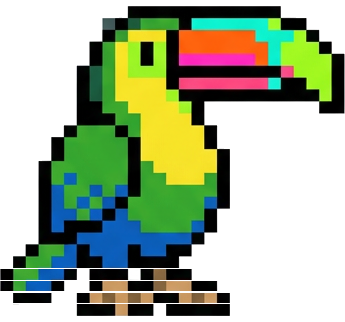
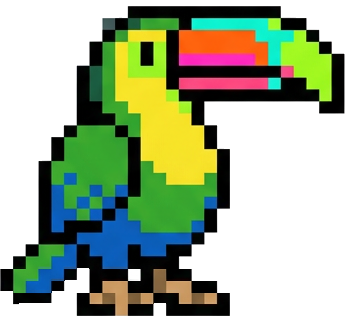
Add files via upload

Changed region(s): [[0.2609, 0.9006, 0.6377, 0.9317], [0.029, 0.9006, 0.1449, 0.9317]]

diff --git a/src/lib/version.ts b/src/lib/version.ts
@@ -4,7 +4,7 @@
  * quickest tell for a partial upload: a missing file usually shows up as a
  * missing migration.
  */
-export const APP_VERSION = "0.598.0";
+export const APP_VERSION = "0.599.0";
 
 export const MIGRATIONS = [
   "0_init",
@@ -145,6 +145,12 @@ export const MIGRATIONS = [
 export type Change = { version: string; summary: string[] };
 
 export const CHANGES: Change[] = [
+  {
+    version: "0.599.0",
+    summary: [
+      "Cleaned stray lines off several characters: Curtain-Call Curly, Inkbelle, Newsreel Nettie, Old-Reel Rufus, Turbo Tusk, Pluck and Chillwing.",
+    ],
+  },
   {
     version: "0.598.0",
     summary: [

diff --git a/DECISIONS.md b/DECISIONS.md
@@ -1,5 +1,25 @@
 # Decisions
 
+## 2026-10 — Character sprites: stray lines removed (v0.599.0)
+
+Scanned all 163 companion PNGs for pieces separate from the character and
+for a floor line under it, then looked at every hit. Fixed:
+- **Neighbour bleed** (a sliver or a chunk of the next sprite on the sheet,
+  touching the image edge): Curtain-Call Curly ×3 (the adult had part of a
+  neighbour's hand), Turbo Tusk adult/juvenile; a stray speck on Pluck's
+  hatchling.
+- **Floor lines** under Inkbelle, Newsreel Nettie and Old-Reel Rufus (every
+  stage) plus loose squares beside them. Only the bottom strip at least 95%
+  as wide as the bottom row is taken, and in it only pixels outside the feet's
+  lowest row — so flared feet and sloped shoes keep their shape and outline. (A
+  first, looser rule clipped Nettie's and Rufus's feet; caught by comparing
+  before/after.)
+- **Chillwing**'s perch had every other pixel row transparent (read as stray
+  lines); the 1–2-row gaps are filled from the row above, so it's a solid
+  branch with the feet on it. Kept, not removed: the feet are part of it.
+Left as drawn: Victory Vip's ground (intended) and Boombug's spread legs.
+Web only — the app loads the sprites from the server.
+
 ## 2026-10 — Grocery icon batch 2: 16 icons, men's/women's deodorant (v0.598.0 / app 0.408.0)
 
 The rest of the October request, cut the same way as batch 1 (detected rows,

diff --git a/ROADMAP.md b/ROADMAP.md
@@ -1672,6 +1672,6 @@ the fairness engine above as the quiet fuel. No one is ranked against anyone.
 
 ## Known-good baselines (end of this run)
 
-- Web APP_VERSION 0.598.0 (migrations through 127_marine_corps_birthday).
+- Web APP_VERSION 0.599.0 (migrations through 127_marine_corps_birthday).
 - App versionName 0.408.0 / versionCode 469 / CLIENT_BUILD 469.
 - Collector: deployed and running; Xbox totals come from real game sessions.
